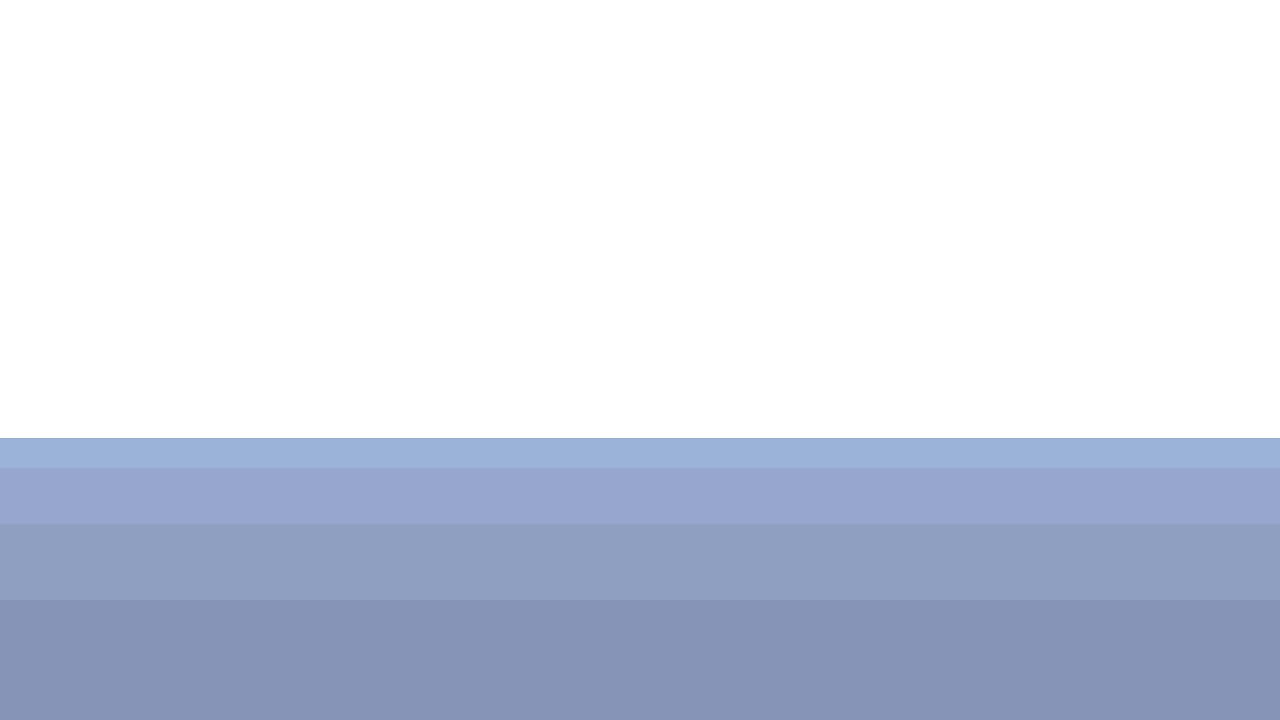
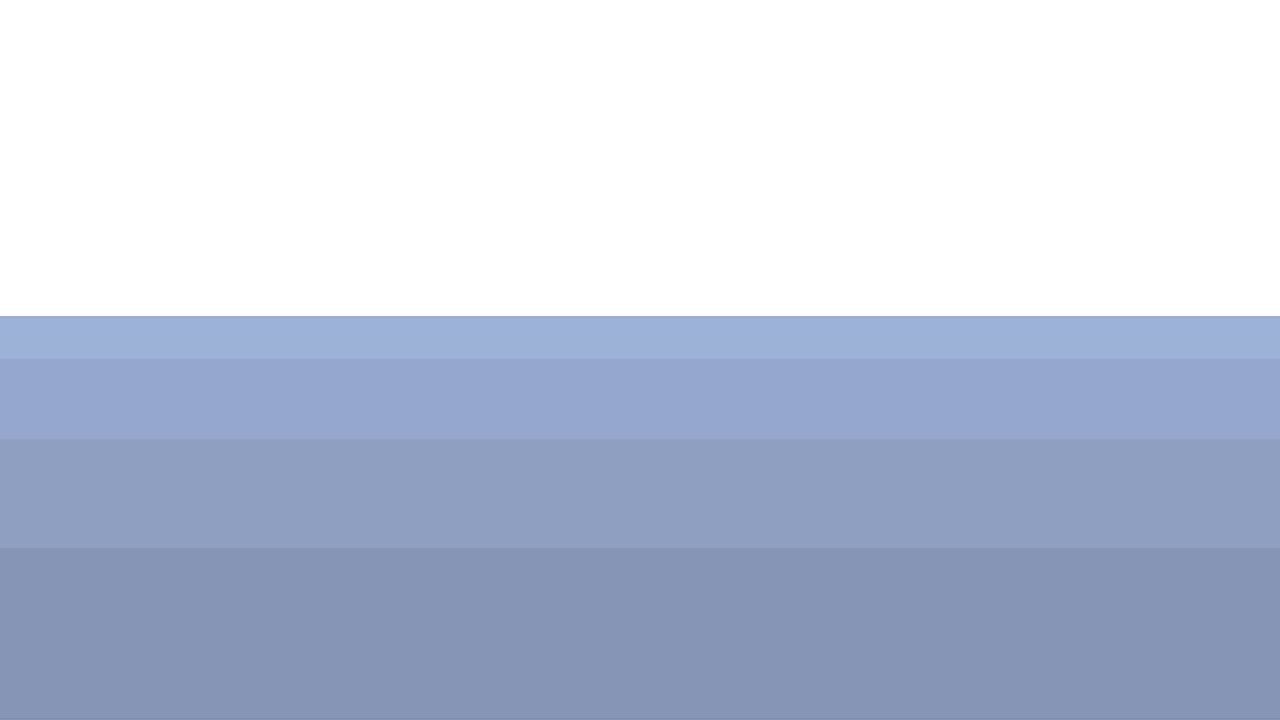
updates to attack flow steps, work on dive anim. changes to scrolling water

Changed region(s): [[0.0, 0.4278, 1.0, 0.6111]]

diff --git a/GameManager.js b/GameManager.js
@@ -85,6 +85,10 @@ class GameManager{
         this.sub.torpedoResupply();        
     }
 
+    setEventResolved(state) {
+        this.eventResolved = state;
+    }
+
     getFullUboatID(){
         return "U-" + this.id;
     }
@@ -237,16 +241,18 @@ class GameManager{
 
     beginPatrol() {
         this.patrolling = true;
-        this.currentBox = 1;
-        this.advancePatrol(true);
+        this.currentBox = 0;
+        this.advancePatrol();
     }
 
-    async advancePatrol(begin) {
-        //patrol sequence to go through patrol
-        if (! begin) {
+    //patrol sequence to go through patrol
+    async advancePatrol() {
+    
+        //close previous box and move to next square
+        if (this.currentBox > 0) {
             this.encPop.done();
-            this.currentBox++;
         }
+        this.currentBox++;
 
         console.log("Patrol Advance---------- step #" + this.currentBox);
 
@@ -321,7 +327,7 @@ class GameManager{
     }
 
     //When any type of ship/convoy is rolled as an encounter
-    encounterAttack(enc, existingShips) {
+    async encounterAttack(enc, existingShips) {
         console.log("ALARRRRM!  " + enc);
         var shipList = [];
         if (existingShips == null) {
@@ -330,15 +336,55 @@ class GameManager{
         else {
             shipList = existingShips;
         }
-
         
-        //create popup based on that encounter
-        this.encPop = new EncounterPopup(this.tv, this, enc, shipList);
-
         this.tv.enterEncounter();
-        this.tv.changeScene("Ship", this.getTimeOfDay(false));
-        this.eventResolved = false;
-        this.tv.pauseGame();
+        var timeOfDay = this.getTimeOfDay(false)
+        this.tv.changeScene(enc, timeOfDay);
+        //this.tv.pauseGame(true);
+        this.setEventResolved(false);
+
+        //create popup based on that encounter to begin encounter
+        this.encPop = new EncounterPopup(this.tv, this, enc, shipList);
+        await until(_ => this.eventResolved == true);
+
+        //check if ignoring ship(s)
+        var waitRoll = d6Roll();
+        if (this.encPop.getChoice() == "ignore") {
+            this.tv.changeScene("", timeOfDay);
+            this.tv.finishEncounter();
+            return;
+        }
+        //check if waiting - see if roll to wait is successful
+        else if (this.encPop.getChoice() == "wait") {
+            if (waitRoll >= 5) {
+                console.log("TODO deal with lost them!");
+                this.tv.finishEncounter();
+                return;
+            }
+            else {
+                console.log("Successfully followed!");
+                if (timeOfDay == "Night") {
+                    timeOfDay = "Day";
+                    this.tv.changeScene(enc, timeOfDay);
+                }
+                else {
+                    timeOfDay = "Night";
+                    this.tv.changeScene(enc, timeOfDay);
+                }
+            }
+        }
+
+        //next popup to get depth
+        this.setEventResolved(false);
+        var ADpopup = new AttackDepthPopup(this.tv, this, this.enc, shipList);
+        await until(_ => this.eventResolved == true);
+
+        var depth = ADpopup.getDepth();
+        if (depth == "Periscope Depth") {
+            this.tv.gameObjects.sprite.uboat.dive();
+        }
+
+        //next popup to choose range
         
     }
 

diff --git a/TacticalView.js b/TacticalView.js
@@ -5,7 +5,7 @@ class TacticalView{
         this.gm = new GameManager(this);
         this.mainUI = null;
         this.scene = startScene;
-        this.isUnpaused = true;
+        this.isPaused = false;
         this.reloadMode = false;
         this.isInEncounter = false;
         this.isDeparted = false; //used to track after reloading whether the boat leaves port, or simply finishes reload
@@ -32,12 +32,8 @@ class TacticalView{
         this.setNewTranslation();
     }
 
-    pauseGame(){
-        this.isUnpaused = false;
-    }
-
-    unpauseGame(){
-        this.isUnpaused = true;
+    pauseGame(state){
+        this.isPaused = state;
     }
 
     enterReloadMode() {
@@ -101,10 +97,10 @@ class TacticalView{
         this.time = time;
 
         if (time == "Day") {
-            this.lowerImage.src = "images/scrollingwater_spritesheet.png"
+            this.lowerImage.src = "images/scrollingwater_spritesheet.png";
         }
         else {
-            this.lowerImage.src = "images/scrollingwater_NIGHT_spritesheet.png"
+            this.lowerImage.src = "images/scrollingwater_NIGHT_spritesheet.png";
         }
     }
 
@@ -140,7 +136,7 @@ class TacticalView{
 
     updateAnimationProgress(){
         //check to animate if the game is not in a paused state
-        if (this.isUnpaused == true) {
+        if (this.isPaused == false) {
             //Downtick frame progress
             this.animationFrameProgress -= 1;
             //Check to see if frame limit is 0, if it is, roll to next frame
@@ -219,7 +215,7 @@ class TacticalView{
                 this.gameObjects = {
                     uboat: new GameObject({
                         x: 0,
-                        y: 280,
+                        y: 200,
                         src: "images/ships/Uboat_VIIC_spritesheet2.png",
                         width: 803,
                         height: 95,
@@ -243,7 +239,7 @@ class TacticalView{
                 this.gameObjects = {
                     uboat: new GameObject({
                         x: 0,
-                        y: 280,
+                        y: 200,
                         src: "images/ships/Uboat_VIIC_spritesheet2.png",
                         width: 803,
                         height: 95,

diff --git a/popups/AttackDepthPopup.js b/popups/AttackDepthPopup.js
@@ -5,6 +5,8 @@ class AttackDepthPopup{
         this.enc = enc
         this.shipList = shipList;
 
+        this.depth = null;
+
         this.container = document.querySelector(".game-container");
 
         //Create the element
@@ -18,26 +20,41 @@ class AttackDepthPopup{
     getDepthPopup(){
 
         //determine if a surface attack is possible (escorted or not, etc)
-        if (this.shipList[0].type == "Escort") {
-            console.log("Disabling");
+        if (this.shipList[0].getType() == "Escort") {
+            console.log("Disabling Surface due to Escort");
             document.getElementById("SurfaceDepth").disabled = true;
         }
 
         //new div to add
         this.element.innerHTML = (`
-            <p class="PatrolMessage_p">How will we attack?<br>
+            <h3 class="HeaderMessage_h3">How will we attack?</h3>
+            <p class="PatrolMessage_p">
             <input type="radio" id="PeriscopeDepth" name="depth" value="Periscope Depth" checked="checked">
             <label for="Periscope Depth">Periscore Depth</label>
             <input type="radio" id="SufaceDepth" name="depth" value="Surfaced">
             <label for="Surfaced">Surfaced</label>
+            <button class="AttackPopup_button" id="attack">Continue</button>
             </p>
         `)
+
+        this.element.addEventListener("click", ()=> {
+            if (event.target.id == "attack"){
+                //get selected value and close popup
+                this.done();
+            }
+        })
 
         this.container.appendChild(this.element);
     }
     
     done(){
+        this.depth = document.querySelector('input[name="depth"]:checked').value;
         this.element.remove();
+        this.gm.setEventResolved(true);
+    }
+
+    getDepth() {
+        return this.depth;
     }
 
 }

diff --git a/popups/EncounterPopup.js b/popups/EncounterPopup.js
@@ -4,6 +4,8 @@ class EncounterPopup{
         this.gm = gm;
         this.enc = enc;
         this.shipList = shipList;
+        
+        this.choice = null;
 
         this.container = document.querySelector(".game-container");
 
@@ -95,18 +97,14 @@ class EncounterPopup{
             </p>
             <button class="AttackPopup_button" id="attack">Attack</button>
             <button class="WaitPopup_button" id="wait">Follow Until ${oppositeTime}</button>
-            <button class="PassPopup_button" id="pass">Ignore</button>
+            <button class="PassPopup_button" id="ignore">Ignore</button>
         `)
 
         this.element.addEventListener("click", ()=> {
             var action = null;
-            if (event.target.id == "attack" || event.target.id == "wait"){
-                //close popup, move to next attack popup
-                //const attackPopup = new AttackStartPopup();
-                this.continueAttack(event.target.id);
-            }
-            else if (event.target.id == "ignore") {
-                this.done()
+            if (event.target.id == "attack" || event.target.id == "wait" || event.target.id == "ignore"){
+                //close popup
+                this.done(event.target.id);
             }
         })
 
@@ -117,13 +115,13 @@ class EncounterPopup{
         console.log("TODO2");
     }
     
-    done(){
+    done(id){
         this.element.remove();
+        this.gm.setEventResolved(true);
+        this.choice = id;
     }
 
-    continueAttack(){
-        this.element.remove();
-        var ADpopup = new AttackDepthPopup(this.tv, this.gm, this.enc, this.shipList);
+    getChoice() {
+        return this.choice;
     }
-
 }

diff --git a/Sprite.js b/Sprite.js
@@ -15,6 +15,7 @@ class Sprite {
     this.isPlayer = config.isPlayer;
 
     this.depth = 0;
+    this.diving = false;
     this.surface();
 
     //Configure Animation & Initial State
@@ -57,6 +58,16 @@ class Sprite {
     }
     else if (!this.isPlayer) {
       this.currentFrame = 0;
+    }
+
+    //player diving animation
+    if (this.diving && this.isPlayer) {
+      if (this.animationFrameProgress == o) {
+        this.depth += 1;
+      }
+      if (this.depth >= 85) {
+        this.diving = false;
+      }
     }
 
     //player sprite
@@ -131,8 +142,9 @@ class Sprite {
   }
 
   dive(){
-    this.depth = 85;
-    this.height = 150;
+    this.diving = true;
+    //this.depth = 85;
+    //this.height = 150;   ?????
   }
 
   surface(){

diff --git a/popups/StatusPopup.js b/popups/StatusPopup.js
@@ -7,7 +7,7 @@ class StatusPopup{
         if (this.tv.isUnpaused == false) {
             this.gameWasAlreadyPaused = true;
         }
-        this.tv.pauseGame();
+        this.tv.pauseGame(true);
 
         this.container = document.querySelector(".game-container");
 
@@ -115,7 +115,7 @@ class StatusPopup{
     done(){
         this.element.remove();
         if (!this.gameWasAlreadyPaused) {
-            this.tv.unpauseGame();
+            this.tv.pauseGame(false);
         }
     }
 }

diff --git a/UI.js b/UI.js
@@ -161,7 +161,7 @@ class UI{
     uiIsOn(){
         //checks if UI should be on or off
 
-        if (this.tv.scene.includes("Ship") || this.tv.reloadMode == true){
+        if (!this.tv.scene.includes("Port") || this.tv.reloadMode == true){
             return true;
         }
         else {

diff --git a/popups/ResupplyPopup.js b/popups/ResupplyPopup.js
@@ -171,7 +171,7 @@ class ResupplyPopup{
     done(){
         this.element.remove();
         this.tv.changeScene("Port");
-        this.tv.unpauseGame();
+        this.tv.pauseGame(false);
         this.tv.mainUI.reloadMode();
     }
 }

diff --git a/Button.js b/Button.js
@@ -86,7 +86,7 @@ class Button {
     }
 
     continuePatrol(){
-        this.gm.advancePatrol(false);
+        this.gm.advancePatrol();
     }
 
     disableButton(){

diff --git a/Ship.js b/Ship.js
@@ -129,4 +129,8 @@ class Ship {
     getNameAndGRT() {
         return this.name + " - " + this.GRT;  
     }
+
+    getType() {
+        return this.type;
+    }
 }

diff --git a/popups/Popup.js b/popups/Popup.js
@@ -204,6 +204,6 @@ class Popup{
 
     done(){
         this.element.remove();
-        this.tv.unpauseGame();
+        this.tv.pauseGame(false);
     }
 }

diff --git a/styles/EncounterPopup.css b/styles/EncounterPopup.css
@@ -76,4 +76,5 @@
     position: absolute;
     right: 100px;
     bottom: 15px;
+    width: 188px;
 }
